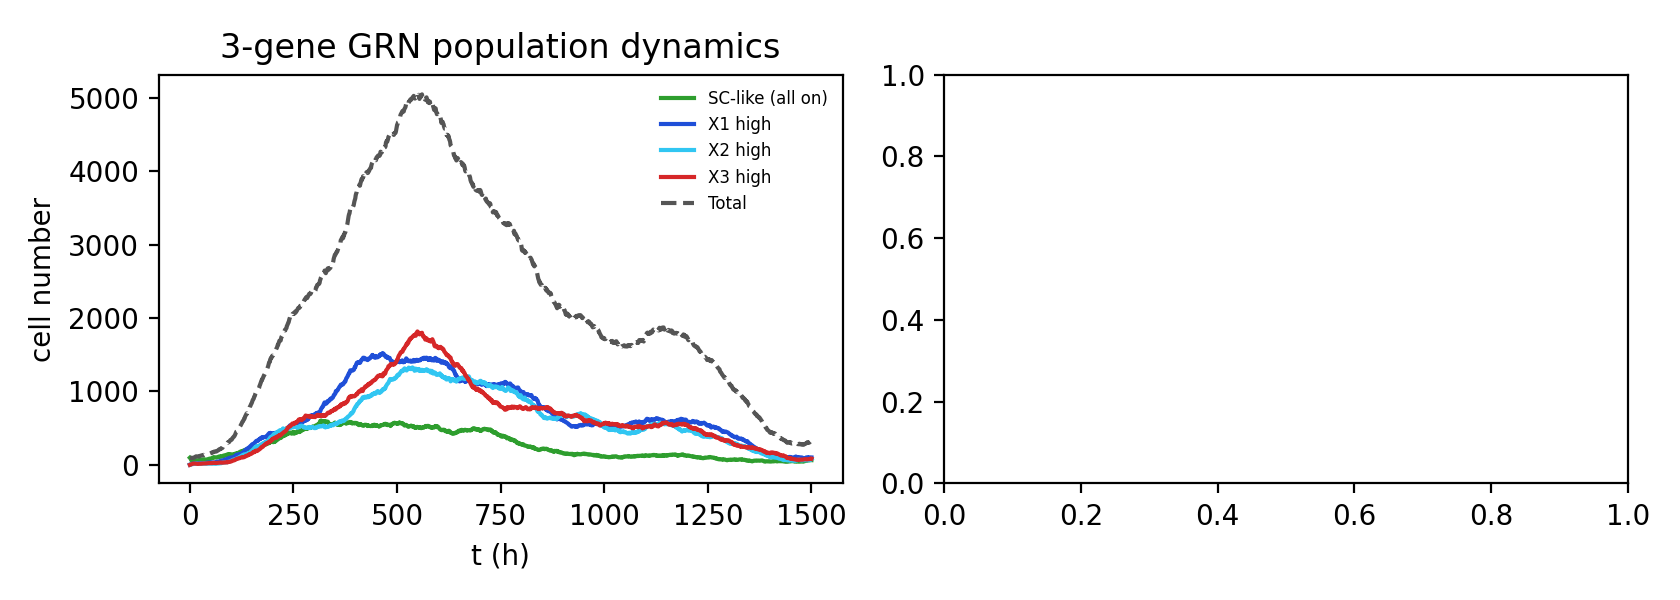
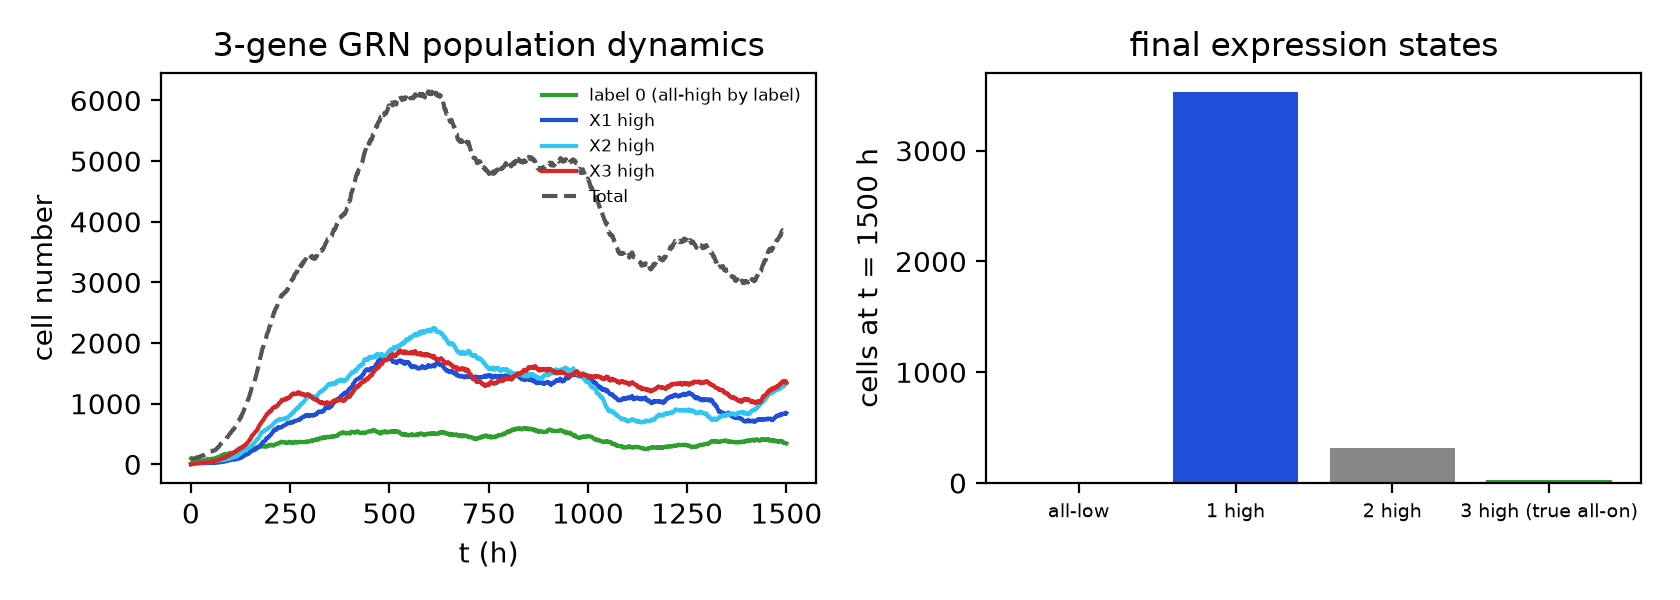
Cleanup: standalone-runnable audit suites, F6 right-panel fix, README v1.2.0 + corrected counts
- tests/test_audit_2026_10_21.py, tests/test_audit_ranges.py: add the
  sys.path bootstrap (same pattern as test_cerps.py) and a __main__ entry
  that runs pytest on the file itself, so the README Quickstart commands
  `python tests/<file>.py` actually execute the suites (they previously
  died with ModuleNotFoundError, or ran silently with no checks).
- examples/example_multigene.py: pass snapshot_times=[t_max] to run();
  without it sim.snapshots is always empty and the right panel ("final
  expression states") never rendered (audit finding F6).
- reproduction/results/figures/cerps_example_3gene.png: regenerated with
  the fixed example.  Left panel unchanged (final total 3871, label-0
  344 -- deterministic), right panel now populated (1 high ~3500,
  2 high ~300, true all-on ~0).
- README.md: add the v1.2.0 changelog entry (D1-D4/M2a hardening fixes
  and the M2 proposal layer, with measured before/after numbers);
  correct the test-count claims -- the standalone runners execute
  61+93+19+18 = 191 checks, while `python -m pytest tests/` collects
  only the 62 pytest-style cases (the two harness files expose 13/12 of
  their checks as test_* functions); annotate the stale v1.1.1
  "60 passed" line as the pre-merge count.

diff --git a/tests/test_audit_2026_10_21.py b/tests/test_audit_2026_10_21.py
@@ -9,13 +9,20 @@ validated Table-3 baseline is untouched:
 
 and asserts the defaults still reproduce the legacy paths.
 """
+import os
+import sys
+
 import numpy as np
 import pytest
 
-from cerps.config import GRNConfig, SpaceConfig, CERPSConfig, EpiConfig
-from cerps.grn import GRN
-from cerps.spatial import Space
-from cerps import batch
+HERE = os.path.dirname(os.path.abspath(__file__))
+ROOT = os.path.dirname(HERE)
+sys.path.insert(0, ROOT)
+
+from cerps.config import GRNConfig, SpaceConfig, CERPSConfig, EpiConfig  # noqa: E402
+from cerps.grn import GRN  # noqa: E402
+from cerps.spatial import Space  # noqa: E402
+from cerps import batch  # noqa: E402
 from cerps import division as div_mod
 from cerps import epigenetics as epi
 
@@ -227,3 +234,8 @@ def test_sphere_mask_zeros_field_outside_sphere():
 
 def test_sphere_mask_default_false():
     assert SpaceConfig().sphere_mask is False
+
+
+if __name__ == "__main__":
+    import pytest
+    raise SystemExit(pytest.main([__file__, "-q"]))

diff --git a/tests/test_audit_ranges.py b/tests/test_audit_ranges.py
@@ -12,12 +12,19 @@ future refactor cannot silently change them:
 
 Pure NumPy, no simulation, so this file is fast enough for every CI run.
 """
+import os
+import sys
+
 import numpy as np
 import pytest
 
-from cerps.config import GRNConfig, CERPSConfig
-from cerps.grn import GRN
-from cerps import batch
+HERE = os.path.dirname(os.path.abspath(__file__))
+ROOT = os.path.dirname(HERE)
+sys.path.insert(0, ROOT)
+
+from cerps.config import GRNConfig, CERPSConfig  # noqa: E402
+from cerps.grn import GRN  # noqa: E402
+from cerps import batch  # noqa: E402
 
 DT = 0.25
 ZETA_GRID = [0.25, 0.5, 1.0, 2.0, 4.0]
@@ -75,3 +82,8 @@ def test_grn_stiffness_crosses_unity_only_where_audit_says():
         ("k11.1", dict(k_deg=(1.1, 1.0))), ("rho10.11", dict(rho=(0.11, 0.1))),
     ] if _stiff(**kw) > 1.0}
     assert set(over) == {"alpha1.0", "s0.3", "alpha10.44"}, over
+
+
+if __name__ == "__main__":
+    import pytest
+    raise SystemExit(pytest.main([__file__, "-q"]))

diff --git a/examples/example_multigene.py b/examples/example_multigene.py
@@ -43,7 +43,10 @@ def main(t_max=1500.0):
         rates=RatesConfig(rate_mode="continuous"),
         n_init=100, max_time=t_max, seed=3)
     sim = Simulator(cfg)
-    sim.run()
+    # snapshot_times=[t_max] populates sim.snapshots with the FINAL state,
+    # which the right panel ("final expression states") reads.  Without it
+    # snapshots is empty and the right panel never renders.
+    sim.run(snapshot_times=[t_max])
     rec = sim.records
     t = np.array(rec["t"])
 

diff --git a/README.md b/README.md
@@ -65,7 +65,9 @@ python tests/test_audit_fixes.py                 # 93 audit-fix tests
 python tests/test_audit_2026_10_21.py            # 19 tests (2026-10-21 audit)
 python tests/test_audit_ranges.py                # 18 range-scan tests (audit §8)
 python tests/test_m2_generalisation.py           # V1-V7 proposal-layer checks
-# or: python -m pytest tests/                    # 191 passed (+ M2 suite)
+# every file above runs standalone; python -m pytest tests/ collects the
+# 62 pytest-style cases (the two harness files expose 13/12 of their
+# 61/93 checks as test_* functions; full 191 via the standalone commands)
 
 # --- batch experiments (the experiment layer) -------------------------
 python -c "
@@ -148,6 +150,35 @@ cerps_sbi/              adapter over the CERPS_complete_package kernel
 
 ## Changelog
 
+### v1.2.0 (2026-10-22) -- hardening fixes merged + M2 proposal layer
+
+Merged the 2026-10-20 hardening line (five measured defects, each with
+regression tests) and the M2 generalisation layer into `main`:
+
+| id | defect | measured before | after |
+|---|---|---|---|
+| D1 | `_record` hard-coded the label columns `{0,1,3}`, so cells with label >= 4 (G >= 4) were silently dropped from every `ho_*` summary | G=4 lost 20.3%, G=5 lost 30.8% | labels >= 4 counted in `other` |
+| D2 | P6 memory EWMA gain `dt/tau` unclamped: `tau < dt` diverged | `tau=0.1, dt=0.25`: max\|mem\| = 1.8e42 | clamped, max\|mem\| = 0.967 |
+| D3 | `MemoryConfig.driver` was a dead option (never read) | `u_mean` ran bit-identical to `stemness` | driver honoured |
+| D4 | `run()` re-entry concatenated records from two time origins | run(100)+run(200) = 1200 records | 800 records, series ends at t=200; P8 delay buffer also reset |
+| M2a | `GRNConfig.matrices()` accepted wrong-length flat `b_rep`/`c_act` | crashed later inside `GRN.step` (IndexError) | `ValueError` at `matrices()` |
+
+New **M2 generalisation layer** (`cerps/h_general.py`, `cerps/notation.py`):
+the RACIPE-style proposal form `F(x) = (G(x), H(x))` with epigenetic gates
+(`alpha`/`beta`/`k`), verified V1-V7 in `tests/test_m2_generalisation.py` --
+including bit-exact agreement with the native GRN wherever the reduction is
+defined.  `ProposalGRN.from_native` now *refuses* product mode with
+`b_base != 1` (which it cannot express) instead of silently dropping
+`b_vec`; additive mode stays exact for any `b_base`.
+
+Suite after the merge: every test file is standalone-runnable
+(`python tests/<file>.py`) -- `test_cerps.py` 61 + `test_audit_fixes.py`
+93 + `test_audit_2026_10_21.py` 19 + `test_audit_ranges.py` 18 = **191
+checks passed**, plus the M2 V1-V7 suite.  (`python -m pytest tests/`
+collects the 62 pytest-style cases; the two harness files expose only
+13/12 of their checks as `test_*` functions, so the standalone commands
+are the authoritative full run.)
+
 ### v1.1.1 (2026-10-21) -- deep audit: exactness in degenerate limits
 
 An audit of *where the model is exact in degenerate limits but may fail in
@@ -166,8 +197,10 @@ Also added: `batch.grn_stiffness` (per-gene `dt·λ_i`, default 0.953),
 `batch.validate` warnings, `docs/validity_matrix.md`,
 `tests/test_audit_2026_10_21.py` (19 regression tests) and
 `tests/test_audit_ranges.py` (18 range-scan tests pinning audit §8). Full
-suite: **60 passed** (11 + 12 + 19 + 18). See `docs/audit_2026-10-21.md` §8
-for the parameter-range and symmetry/asymmetry scan.
+suite at this release: **60 passed** (11 + 12 + 19 + 18; the hardening-line
+merge later expanded the first two files to 61 + 93 -- see v1.2.0). See
+`docs/audit_2026-10-21.md` §8 for the parameter-range and
+symmetry/asymmetry scan.
 
 ### v1.1.0 (2026-10-19) -- audit fixes
 
